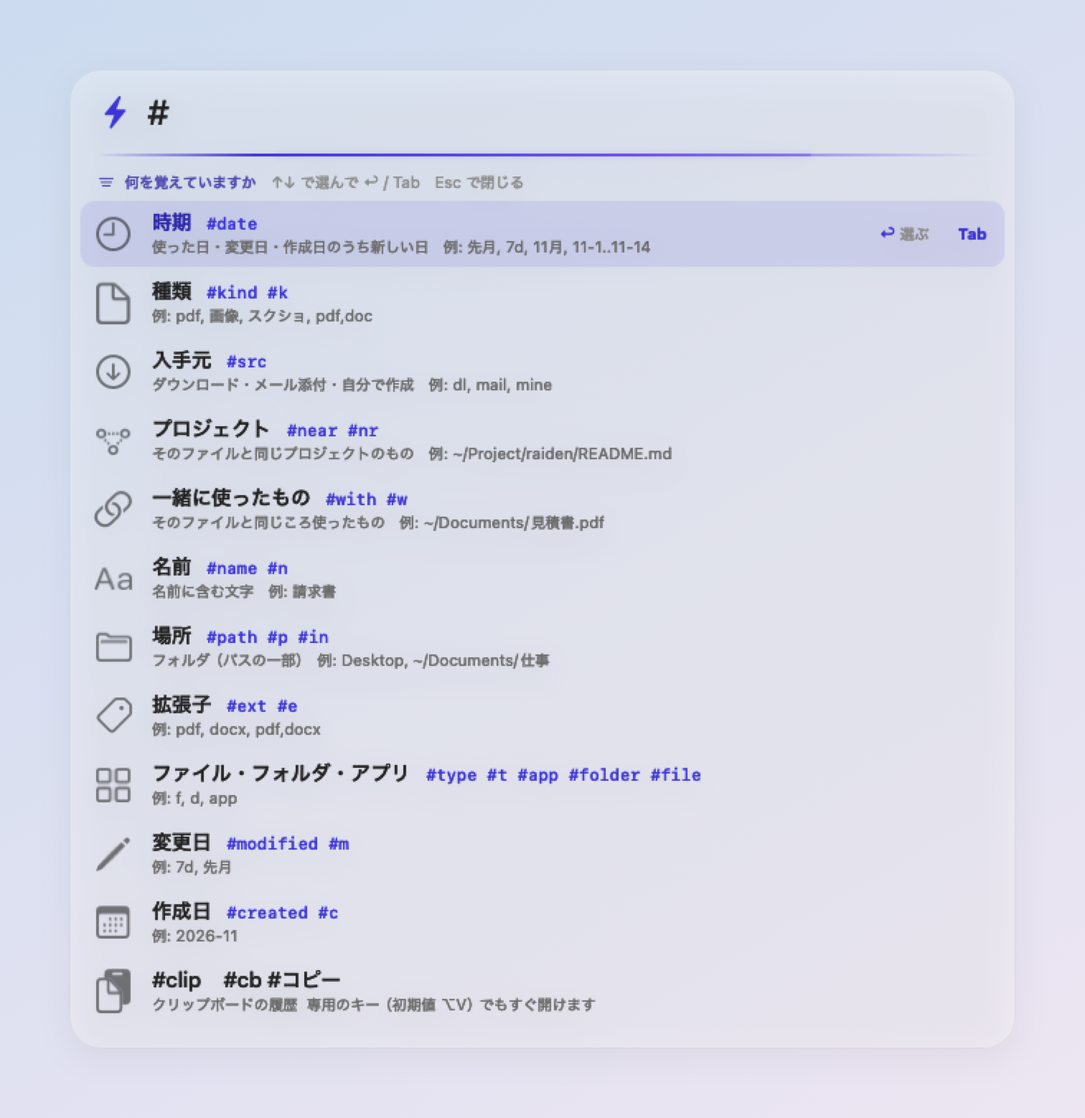
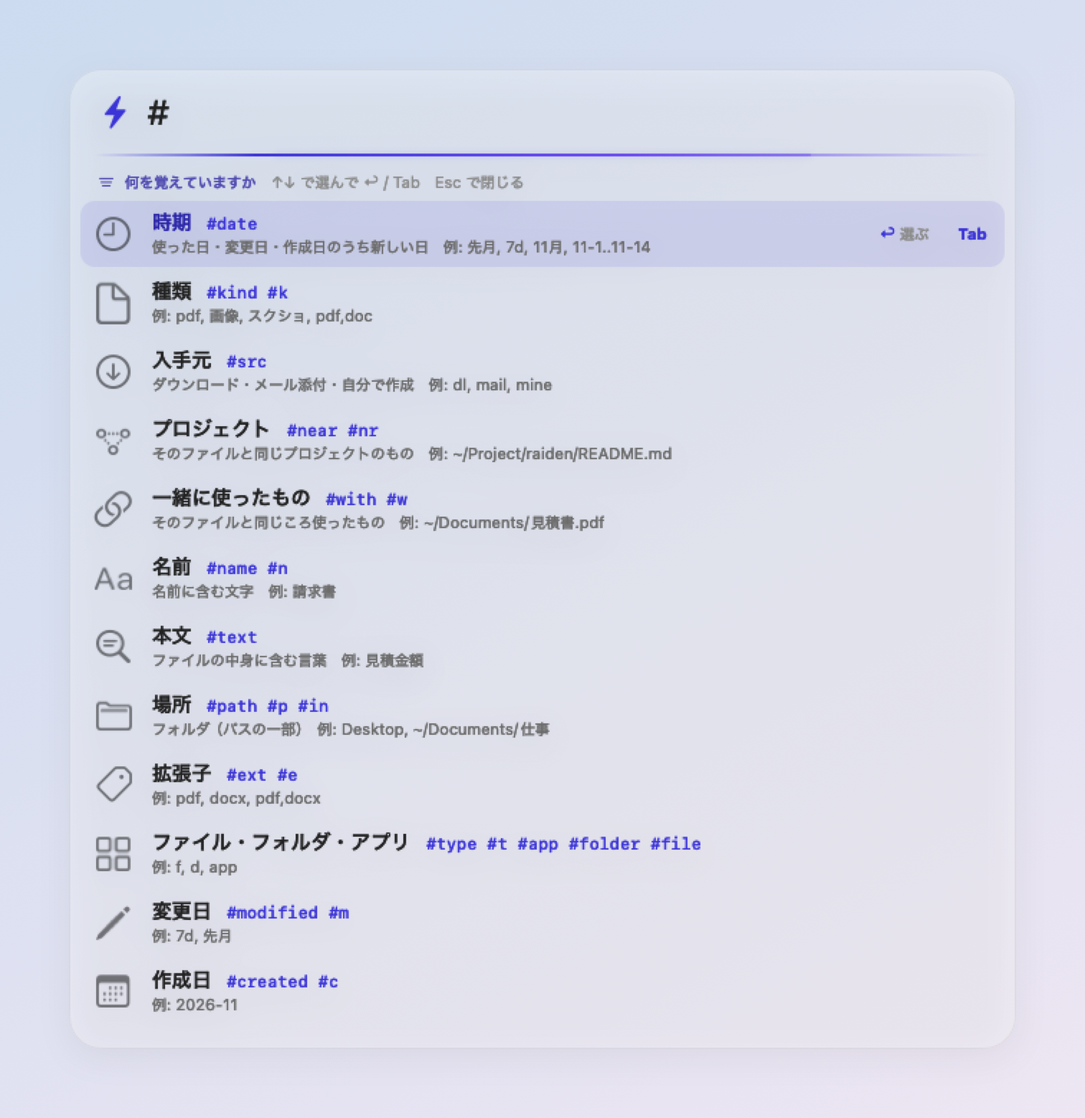
#text（本文に含む言葉。Spotlight の kMDItemTextContent）を足す。見つからないときは「探し方を変える」（時期を「ごろ」に広げる・本文から探す・条件を 1 つ外す。見つかる案だけ、⌘1〜）。Spotlight が /System/Volumes/Data/… で返す場所をふだんの書き方に直す

Changed region(s): [[0.0933, 0.5546, 0.6528, 0.9243], [0.2176, 0.801, 0.3108, 0.8318]]

diff --git a/app/Sources/RaidenCore/Recall.swift b/app/Sources/RaidenCore/Recall.swift
@@ -10,8 +10,10 @@ public struct RecallSplit: Sendable, Equatable {
         public let symbol: String    // SF Symbols
         public let command: String   // #date 先月
         public let count: Int
-        public init(label: String, symbol: String, command: String, count: Int) {
-            self.label = label; self.symbol = symbol; self.command = command; self.count = count
+        /// true なら command は入力全体の置き換え（探し方を変えるとき）。false ならチップを 1 つ足す
+        public var replaces = false
+        public init(label: String, symbol: String, command: String, count: Int, replaces: Bool = false) {
+            self.label = label; self.symbol = symbol; self.command = command; self.count = count; self.replaces = replaces
         }
     }
     public let title: String         // 時期で絞り込む
@@ -90,7 +92,8 @@ public enum Recall {
                 let root = sortedRoots.first { dir == $0 || dir.hasPrefix($0 + "/") } ?? dir
                 groups[root, default: []].formUnion(ix)
             }
-            let opts = groups.filter { $0.value.count < total }.map { (root, hit) -> (RecallSplit.Option, Set<Int>) in
+            // ホームや / を選び先にしない（#path ~ では絞れず、件数と食い違う）
+            let opts = groups.filter { $0.value.count < total && $0.key != NSHomeDirectory() && $0.key != "/" }.map { (root, hit) -> (RecallSplit.Option, Set<Int>) in
                 let short = (root as NSString).abbreviatingWithTildeInPath
                 let v = short.contains(where: \.isWhitespace) ? "\"\(short)\"" : short
                 return (RecallSplit.Option(label: placeLabel(root), symbol: "folder", command: "#path \(v)", count: hit.count), hit)
@@ -110,6 +113,46 @@ public enum Recall {
         // どの切り口でも、選んでもほとんど減らない（一番大きい選び先が大半を占める）なら聞かない
         guard let b = best, b.2 < maxScore else { return nil }
         return RecallSplit(title: "\(b.0)で絞り込む", total: total, options: b.1.map(\.0))
+    }
+
+    // MARK: - 見つからないときの探し方
+
+    /// 条件に合う物が 0 件のときの「探し方を変える」の案（入力全体の書き換え）。count は各案で見つかる数を数える口。
+    /// 行き詰まったら探す場所を変えると、また思い出せる（Williams & Hollan 1981）ので、
+    /// 時期を広げる・名前でなく本文から探す・条件を 1 つ外す、を数えて見つかる物だけ出す
+    public static func alternatives(_ q: String, now: Date = Date(), count: (String) -> Int) -> RecallSplit? {
+        let f = QueryFilters.parse(q, now: now)
+        guard f.isActive || !f.text.isEmpty else { return nil }
+        let cmds = f.parsed.filter(\.ok)
+        func join(_ cs: [String], _ text: String) -> String { (cs + (text.isEmpty ? [] : [text])).joined(separator: " ") }
+        func quoted(_ v: String) -> String { v.contains(where: \.isWhitespace) ? "\"\(v)\"" : v }
+        var opts: [RecallSplit.Option] = []
+        // 時期を広げる（「先月」→「先月ごろ」。もう「ごろ」なら外す案に任せる）
+        for (i, c) in cmds.enumerated() where c.command.map({ [.date, .modified, .created].contains($0) }) == true {
+            guard let v = c.value, !Describe.normalize(v).hasSuffix("ごろ"), let cmd = c.command,
+                  QueryFilters.parseDate(v + "ごろ", now: now) != nil else { continue }
+            var cs = cmds.map(\.raw); cs[i] = cmd.name + " " + quoted(v + "ごろ")
+            let nq = join(cs, f.text)
+             opts.append(.init(label: "「\(c.meaning ?? v)ごろ」に広げる", symbol: "clock", command: nq, count: count(nq), replaces: true))
+        }
+        // 名前でなく本文から探す
+        if !f.text.isEmpty && f.contents.isEmpty {
+            let nq = join(cmds.map(\.raw) + ["#text " + quoted(f.text)], "")
+            let shown = f.text.count > 10 ? String(f.text.prefix(10)) + "…" : f.text
+            opts.append(.init(label: "本文から「\(shown)」", symbol: "text.magnifyingglass", command: nq, count: count(nq), replaces: true))
+        }
+        // 条件を 1 つ外す
+        let chips = f.chips
+        for c in chips {
+            let rest = cmds.filter { $0.command != c.command }.map(\.raw)
+            let nq = join(rest, f.text)
+            if nq.trimmingCharacters(in: .whitespaces).isEmpty { continue }
+            let value = c.label.split(separator: ":", maxSplits: 1).last.map { $0.trimmingCharacters(in: .whitespaces) } ?? c.label
+            opts.append(.init(label: "「\(value)」を外す", symbol: "xmark.circle", command: nq, count: count(nq), replaces: true))
+        }
+        let found = opts.filter { $0.count > 0 }
+        guard !found.isEmpty else { return nil }
+        return RecallSplit(title: "探し方を変える", total: 0, options: Array(found.prefix(maxOptions)))
     }
 
     // MARK: - 最近の作業のまとまり
@@ -165,6 +208,7 @@ public enum Recall {
 
     /// 場所の名前。「3.3.10」のような版の番号だけの名前は親と並べ、「@」の後ろ（版・ハッシュ）は落とす
     static func placeLabel(_ root: String) -> String {
+        if root == NSHomeDirectory() { return "ホーム" }
         var name = (root as NSString).lastPathComponent
         if let at = name.firstIndex(of: "@"), at != name.startIndex { name = String(name[..<at]) }
         if !name.contains(where: \.isLetter) {

diff --git a/app/Sources/RaidenCore/QueryFilters.swift b/app/Sources/RaidenCore/QueryFilters.swift
@@ -13,7 +13,7 @@ import Foundation
 ///   コマンドと読むのは、入力の先頭か空白の直後の「#」「＃」＋文字だけ（「C#」「#1」は普通の文字）。
 public struct QueryFilters: Sendable {
     public enum Command: String, Sendable, CaseIterable {
-        case kind, type, ext, date, modified, created, path, name, with, near, src
+        case kind, type, ext, date, modified, created, path, name, with, near, src, text
         public var takesValue: Bool { true }
         public var name: String { QueryFilters.mark + rawValue }
         /// 短い別名（find / fd と同じ 1 文字）。#date は無し
@@ -28,7 +28,7 @@ public struct QueryFilters: Sendable {
             case .name: return "#n"
             case .with: return "#w"
             case .near: return "#nr"
-            case .date, .src: return nil
+            case .date, .src, .text: return nil
             }
         }
         var isDate: Bool { self == .date || self == .modified || self == .created }
@@ -78,6 +78,8 @@ public struct QueryFilters: Sendable {
     public var nearPath: String?
     /// #src（入手元）: dl（ダウンロード）・mail（メール添付）・mine（自分で作成）。または
     public var sources: Set<String> = []
+    /// #text（本文に含む言葉。かつ）。matches では見ない（中身は Spotlight でしか引けない）
+    public var contents: [String] = []
     var labels: [Command: [String]] = [:]
     /// チップの並び（付けた順。同じコマンドは 1 つにまとめる）
     public private(set) var order: [Command] = []
@@ -85,7 +87,7 @@ public struct QueryFilters: Sendable {
     var hasKind: Bool { !kinds.isEmpty || !kindExts.isEmpty }
     /// 絞り込みが効いているか
     public var isActive: Bool {
-        !types.isEmpty || hasKind || !exts.isEmpty || !dates.isEmpty || !paths.isEmpty || !names.isEmpty || hasRelation || !sources.isEmpty
+        !types.isEmpty || hasKind || !exts.isEmpty || !dates.isEmpty || !paths.isEmpty || !names.isEmpty || hasRelation || !sources.isEmpty || !contents.isEmpty
     }
     /// #with か #near が付いている（手元の matches では絞れず、土台の側で絞る条件）
     public var hasRelation: Bool { withPath != nil || nearPath != nil }
@@ -94,7 +96,7 @@ public struct QueryFilters: Sendable {
     /// アプリを候補に出すか（ファイルにしか効かない条件が付いていれば出さない）
     public var allowsApps: Bool {
         (types.isEmpty || types.contains("app")) && (!hasKind || kinds.contains("app"))
-            && exts.isEmpty && dates.isEmpty && paths.isEmpty && !hasRelation && sources.isEmpty
+            && exts.isEmpty && dates.isEmpty && paths.isEmpty && !hasRelation && sources.isEmpty && contents.isEmpty
     }
     /// ファイル・フォルダを候補に出すか（アプリだけを頼んだときは出さない）
     public var allowsFiles: Bool {
@@ -116,6 +118,7 @@ public struct QueryFilters: Sendable {
         ("with", .with), ("w", .with), ("一緒", .with),
         ("near", .near), ("nr", .near), ("近く", .near),
         ("src", .src), ("source", .src), ("入手元", .src),
+        ("text", .text), ("content", .text), ("本文", .text), ("中身", .text),
     ]
 
     /// #src の値（入手元）→ dl / mail / mine
@@ -303,6 +306,7 @@ public struct QueryFilters: Sendable {
             if f.withPath != nil { others.append("#with") }
             if f.nearPath != nil { others.append("#near") }
             if !f.sources.isEmpty { others.append("#src") }
+            if !f.contents.isEmpty { others.append("#text") }
             if !others.isEmpty { f.notes.append("アプリ（#type app）と \(others.joined(separator: "・")) は一緒に使えません") }
         }
         f.text = f.hasSyntax ? rest.joined(separator: " ") : query.trimmingCharacters(in: .whitespacesAndNewlines)
@@ -376,6 +380,12 @@ public struct QueryFilters: Sendable {
             sources.formUnion(ss.map { $0! })
             remember(.src, ls)
             return ls.joined(separator: "・")
+        case .text:
+            let w = v.trimmingCharacters(in: .whitespaces)
+            if w.isEmpty { return nil }
+            if !contents.contains(w) { contents.append(w) }
+            remember(.text, ["「\(w)」"])
+            return "「\(w)」"
         case .with, .near:
             let p = v.trimmingCharacters(in: .whitespaces)
             if p.isEmpty { return nil }
@@ -401,6 +411,7 @@ public struct QueryFilters: Sendable {
         case .with: f.withPath = nil
         case .near: f.nearPath = nil
         case .src: f.sources = []
+        case .text: f.contents = []
         }
         f.labels[c] = nil
         f.order.removeAll { $0 == c }
@@ -504,6 +515,7 @@ public struct QueryFilters: Sendable {
             case .with: return Chip(command: c, symbol: "link", label: "一緒に使った: " + v)
             case .near: return Chip(command: c, symbol: "point.3.connected.trianglepath.dotted", label: "同じプロジェクト: " + v)
             case .src: return Chip(command: c, symbol: "arrow.down.circle", label: "入手元: " + v)
+            case .text: return Chip(command: c, symbol: "text.magnifyingglass", label: "本文: " + v)
             }
         }
     }

diff --git a/app/Sources/RaidenCore/SpotlightSearch.swift b/app/Sources/RaidenCore/SpotlightSearch.swift
@@ -72,11 +72,12 @@ public final class SpotlightSearch: @unchecked Sendable {
         public var nearAnchor: String?
         public var download = false              // 「ダウンロードした」（~/Downloads か kMDItemWhereFroms）
         public var sources: Set<String> = []     // #src（dl / mail / mine）。細かい所は post でふるう
+        public var contents: [String] = []       // #text（本文に含む言葉。かつ）
         /// 結果をふるう条件（#path の名前・パス・種類の細かい所）。名前の言葉は別に見る
         public var post: QueryFilters?
         public var isEmpty: Bool {
             words.isEmpty && names.isEmpty && families.isEmpty && kindExts.isEmpty && exts.isEmpty && types.isEmpty && dates.isEmpty
-                && scopes.isEmpty && pathNames.isEmpty && withAnchor == nil && nearAnchor == nil && !download && sources.isEmpty
+                && scopes.isEmpty && pathNames.isEmpty && withAnchor == nil && nearAnchor == nil && !download && sources.isEmpty && contents.isEmpty
         }
         public init() {}
     }
@@ -97,6 +98,7 @@ public final class SpotlightSearch: @unchecked Sendable {
         r.withAnchor = f.withPath
         r.nearAnchor = f.nearPath
         r.sources = f.sources
+        r.contents = f.contents
         r.post = f
         return r
     }
@@ -232,6 +234,7 @@ public final class SpotlightSearch: @unchecked Sendable {
         if r.sources == ["dl"] { cs.append("kMDItemWhereFroms == \"*\"") }
         if r.sources == ["mail"] { cs.append("kMDItemWhereFroms == \"message:*\"") }
         if r.sources == ["mine"] { cs.append("kMDItemWhereFroms != *") }
+        for w in r.contents { cs.append("kMDItemTextContent == \"*\(esc(w))*\"cd") }
         if cs.isEmpty { return "kMDItemContentTypeTree == \"public.item\"" }
         return cs.joined(separator: " && ")
     }
@@ -320,7 +323,9 @@ public final class SpotlightSearch: @unchecked Sendable {
 
     /// 1 件の属性から FileEntry を作る（種類は名前の拡張子と UTI の両方から）
     static func entry(_ d: [String: Any]) -> FileEntry? {
-        guard let p0 = d[kMDItemPath as String] as? String else { return nil }
+        guard var p0 = d[kMDItemPath as String] as? String else { return nil }
+        // データの巻のファームリンク（/System/Volumes/Data/Users/…）で返ることがあるので、ふだんの書き方（/Users/…）に直す
+        if p0.hasPrefix("/System/Volumes/Data/") { p0 = String(p0.dropFirst("/System/Volumes/Data".count)) }
         let path = p0.precomposedStringWithCanonicalMapping
         let name = (path as NSString).lastPathComponent
         let ct = d[kMDItemContentType as String] as? String ?? ""

diff --git a/app/Sources/raiden-eval/RecallEval.swift b/app/Sources/raiden-eval/RecallEval.swift
@@ -69,6 +69,23 @@ func runRecallTests() -> (Int, Int) {
     } else { expect(false, "先月ごろ が読めない") }
     expect(QueryFilters.parseDate("11月頃", now: now)?.1 == "11月ごろ", "11月頃")
     expect(QueryFilters.parse("#date 先月ごろ 見積", now: now).chips.first?.label == "期間: 先月ごろ", "チップは「期間: 先月ごろ」")
+    // #text
+    let tf = QueryFilters.parse("#text 見積金額 #kind pdf", now: now)
+    expect(tf.contents == ["見積金額"] && tf.chips.contains { $0.label == "本文: 「見積金額」" } && tf.isActive, "#text のチップ \(tf.chips.map(\.label))")
+    expect(SpotlightSearch.queryString(SpotlightSearch.request(tf, now: now)).contains("kMDItemTextContent == \"*見積金額*\"cd"), "#text は本文で引く")
+    expect(QueryFilters.parse("#本文 請求", now: now).contents == ["請求"], "#本文")
+    // 見つからないときの探し方（数える口は見本: 本文から 5、先月ごろ 2、ほかは 0）
+    let alt = Recall.alternatives("#date 先月 #kind pdf 見積", now: now) { q in
+        q.contains("#text") ? 5 : q.contains("先月ごろ") ? 2 : 0
+    }
+    expect(alt?.title == "探し方を変える" && alt?.total == 0, "探し方を変える")
+    expect(alt?.options.first?.label == "「先月ごろ」に広げる" && alt?.options.first?.command == "#date 先月ごろ #kind pdf 見積" && alt?.options.first?.replaces == true,
+           "時期を広げる案 \(alt?.options.map(\.command) ?? [])")
+    expect(alt?.options.contains { $0.command == "#date 先月 #kind pdf #text 見積" } == true, "本文から探す案")
+    expect(alt?.options.count == 2, "見つからない案（0 件）は出さない")
+    let alt2 = Recall.alternatives("#date 先月 #kind pdf", now: now) { q in q.contains("#kind") ? 0 : 3 }
+    expect(alt2?.options.map(\.label) == ["「PDF」を外す"], "条件を 1 つ外す案 \(alt2?.options.map(\.label) ?? [])")
+    expect(Recall.alternatives("見積", now: now) { _ in 4 }?.options.map(\.command) == ["#text 見積"], "ふつうの入力は本文から探す案だけ")
     // 最近の作業のまとまり: 45 分あいたら分ける、1 まとまり 4 行まで、合計 9 行まで
     func used(_ p: String, minAgo: Int) -> FileEntry {
         FileEntry(path: home + p, name: (p as NSString).lastPathComponent, parentName: "", isDir: false, kind: "", families: [], size: 1,

diff --git a/app/Sources/Raiden/FilterUI.swift b/app/Sources/Raiden/FilterUI.swift
@@ -268,6 +268,21 @@ final class FilterInput {
         panel?.focusField()
     }
 
+    /// 入力全体を書き換える（「探し方を変える」の案）。コマンドはチップに、残りは入力欄に
+    func replaceQuery(_ q: String) {
+        guard let field else { return }
+        if let ex = FilterCompletion.extractCommitted(q + " ", now: now()) {
+            committed = ex.commands
+            field.stringValue = ex.text.trimmingCharacters(in: .whitespaces)
+        } else {
+            committed = []
+            field.stringValue = q
+        }
+        stepBack = nil
+        refresh()
+        panel?.focusField()
+    }
+
     /// 言葉からの候補を決める: チップにして、入力からその言葉を外す
     func acceptSuggestion(_ s: FilterSuggest.Suggestion) {
         guard let field else { return }
@@ -703,6 +718,14 @@ enum FilterSnapshots {
             .init(label: "メール添付", symbol: "envelope", command: "#src mail", count: 8)])
         ak2.setResults([ResultSection(title: "ファイル・フォルダ", symbol: "folder", items: Array(akRows.prefix(2)))], query: ak2.filterInput.currentQuery, split: akSplit2)
         Snapshot.capture(ak2, dir + "/recall-ask2.png")
+        // 見つからないときの「探し方を変える」（件数は見本）
+        let nf = panel("見積", committed: ["#date 先月", "#kind pdf"])
+        let nfSplit = RecallSplit(title: "探し方を変える", total: 0, options: [
+            .init(label: "「先月ごろ」に広げる", symbol: "clock", command: "#date 先月ごろ #kind pdf 見積", count: 4, replaces: true),
+            .init(label: "本文から「見積」", symbol: "text.magnifyingglass", command: "#date 先月 #kind pdf #text 見積", count: 9, replaces: true),
+            .init(label: "「PDF」を外す", symbol: "xmark.circle", command: "#date 先月 見積", count: 3, replaces: true)])
+        nf.setResults([], query: nf.filterInput.currentQuery, split: nfSplit)
+        Snapshot.capture(nf, dir + "/recall-notfound.png")
 
         // 絞り込みの長い一覧を時期の棚に分けた状態（行に「いつ・どこから」）。今の時刻からの見本
         let nowT = Int(Date().timeIntervalSince1970)

diff --git a/app/Sources/RaidenCore/FilterCompletion.swift b/app/Sources/RaidenCore/FilterCompletion.swift
@@ -149,6 +149,7 @@ public enum FilterCompletion {
         (.near, "point.3.connected.trianglepath.dotted", "プロジェクト", "そのファイルと同じプロジェクトのもの", "例: ~/Project/raiden/README.md"),
         (.with, "link", "一緒に使ったもの", "そのファイルと同じころ使ったもの", "例: ~/Documents/見積書.pdf"),
         (.name, "textformat", "名前", "名前に含む文字", "例: 請求書"),
+        (.text, "text.magnifyingglass", "本文", "ファイルの中身に含む言葉", "例: 見積金額"),
         (.path, "folder", "場所", "フォルダ（パスの一部）", "例: Desktop, ~/Documents/仕事"),
         (.ext, "tag", "拡張子", "", "例: pdf, docx, pdf,docx"),
         (.type, "square.grid.2x2", "ファイル・フォルダ・アプリ", "", "例: f, d, app"),
@@ -352,8 +353,11 @@ public enum FilterCompletion {
     }
 
     public static func commands(matching name: String) -> [Item] {
-        commandItems.filter { c in
-            hit(name, QueryFilters.aliases.filter { $0.1 == c.0 }.map(\.0) + (c.0 == .type ? QueryFilters.typeShorthands.map(\.0) : []))
+        // 別名をそのまま打ったら（#t）、その 1 つだけ（#text などの打ちかけとしては出さない）
+        let exact = name.isEmpty ? nil : QueryFilters.command(named: name)
+        return commandItems.filter { c in
+            if let exact { return c.0 == exact }
+            return hit(name, QueryFilters.aliases.filter { $0.1 == c.0 }.map(\.0) + (c.0 == .type ? QueryFilters.typeShorthands.map(\.0) : []))
         }.map { c in
             // 右に添えるのはコマンドと短い別名だけ（日本語の別名は見出しと同じなので出さない。打てば当たる）
             let sh = c.0 == .type ? QueryFilters.typeShorthands.map { QueryFilters.mark + $0.0 } : []
@@ -442,7 +446,7 @@ public enum FilterCompletion {
             })
         case .with, .near:
             return fileItems(partial: partial, src: src, memory: memory)
-        case .name:
+        case .name, .text:
             return []
         }
         // 並べ方: よく使う値 → 件数のある値（種類・拡張子は多い順）→ 0 件

diff --git a/app/Sources/Raiden/main.swift b/app/Sources/Raiden/main.swift
@@ -404,8 +404,10 @@ final class AppDelegate: NSObject, NSApplicationDelegate, NSMenuDelegate {
             if fileSec.items.count > SearchPanelController.maxRows, let i = secs.firstIndex(where: { $0.symbol == "folder" }) {
                 secs.replaceSubrange(i...i, with: timeShelves(fileSec))
             }
+            // 何も見つからなければ「探し方を変える」の案（時期を広げる・本文から・条件を 1 つ外す）
+            let none = fileSec.items.isEmpty && appSec.items.isEmpty
             return Sections(sections: secs, notFound: notFound, appsNoMatch: aj.noMatch, filesNoMatch: filesNoMatch,
-                            split: fj0.split)
+                            split: none ? e.alternatives(q) : fj0.split)
         }
         let firstMax = 4
         let nSecond = min(second.items.count, total - min(first.items.count, firstMax))
@@ -414,8 +416,10 @@ final class AppDelegate: NSObject, NSApplicationDelegate, NSMenuDelegate {
         second.items = Array(second.items.prefix(nSecond))
         let shown = [first, second].filter { !$0.items.isEmpty }
         let notFound = !shown.isEmpty && shown.allSatisfy(\.faded)
+        // アプリもファイルも見つからなければ「本文から探す」などの案（アプリが当たる入力では数えない。打つたびに遅くしないため）
+        let alt = fileResults.isEmpty && aj.noMatch ? e.alternatives(q) : nil
         return Sections(sections: [first, second], notFound: notFound, appsNoMatch: aj.noMatch, filesNoMatch: filesNoMatch,
-                        split: notFound ? nil : fj0.split)
+                        split: alt ?? (notFound ? nil : fj0.split))
     }
 
     /// ファイルの節を時期の棚に分ける。棚は新しい順、棚の中は元の並び（点数の順）。

diff --git a/app/Sources/Raiden/SearchPanel.swift b/app/Sources/Raiden/SearchPanel.swift
@@ -784,7 +784,7 @@ final class SearchPanelController: NSObject, NSTextFieldDelegate, NSWindowDelega
         guard query == filterInput.currentQuery, palette || filterInput.palette == nil else { return }
         // 下の端の絞り込みの問い（一覧・見つからない・辞書の行き先を選ぶ間は出さない）
         footer.subviews.forEach { $0.removeFromSuperview() }
-        askSplit = palette || notFound || filterInput.isPickingAlias ? nil : split
+        askSplit = palette || (notFound && split?.total != 0) || filterInput.isPickingAlias ? nil : split
         filterInput.asking = askSplit != nil
         if let sp = askSplit {
             let bar = AskBar(sp) { [weak self] i in self?.pickAsk(i) }
@@ -897,7 +897,8 @@ final class SearchPanelController: NSObject, NSTextFieldDelegate, NSWindowDelega
     /// 絞り込みの問いの i 番目を選ぶ（打ったときと同じチップにする）
     func pickAsk(_ i: Int) {
         guard let sp = askSplit, sp.options.indices.contains(i) else { return }
-        filterInput.acceptNext(sp.options[i].command)
+        let o = sp.options[i]
+        if o.replaces { filterInput.replaceQuery(o.command) } else { filterInput.acceptNext(o.command) }
     }
 
     /// 結果が届き直したときに同じ物か見分ける鍵

diff --git a/app/Sources/Raiden/AskBar.swift b/app/Sources/Raiden/AskBar.swift
@@ -11,7 +11,7 @@ final class AskBar: NSView {
         super.init(frame: .zero)
         wantsLayer = true
         let stack = ChipBar.row(in: self)
-        let head = NSTextField(labelWithString: "\(FilterCompletion.countText(split.total)) 件 · \(split.title)")
+        let head = NSTextField(labelWithString: split.total > 0 ? "\(FilterCompletion.countText(split.total)) 件 · \(split.title)" : split.title)
         head.font = .systemFont(ofSize: 11.5, weight: .semibold)
         head.textColor = PanelStyle.indigo
         let icon = NSImageView(image: symbol("questionmark.circle", size: 11, weight: .semibold) ?? NSImage())
@@ -20,7 +20,8 @@ final class AskBar: NSView {
         stack.addArrangedSubview(head)
         stack.setCustomSpacing(10, after: head)
         for (i, o) in split.options.enumerated() {
-            let p = ChipBar.pill("⌘\(i + 1)  \(o.label)  \(FilterCompletion.countText(o.count))", symbol: o.symbol, filled: false)
+            let n = o.count >= 1000 && o.replaces ? "1000以上" : FilterCompletion.countText(o.count)
+            let p = ChipBar.pill("⌘\(i + 1)  \(o.label)  \(n)", symbol: o.symbol, filled: false)
             p.onTap = { onPick(i) }
             p.toolTip = "\(o.command)（⌘\(i + 1)）"
             stack.addArrangedSubview(p)

diff --git a/app/Sources/RaidenCore/Engine.swift b/app/Sources/RaidenCore/Engine.swift
@@ -229,6 +229,14 @@ public final class Engine {
         return j
     }
 
+    /// 条件に合う物が 0 件のときの「探し方を変える」の案（各案を Spotlight で数える。1 回 100〜200ms）
+    public func alternatives(_ q: String, now: Date = Date()) -> RecallSplit? {
+        Recall.alternatives(q, now: now) { [spotlight] nq in
+            let f = QueryFilters.parse(nq, now: now)
+            return f.allowsFiles ? spotlight.count(f, max: 1000, now: now) : 0
+        }
+    }
+
     /// 走っているファイルの問い合わせを止める（次の文字が来たとき）
     public func cancelFiles() { spotlight.cancel() }
 }

diff --git a/app/Sources/raiden-eval/main.swift b/app/Sources/raiden-eval/main.swift
@@ -101,6 +101,7 @@ if let q = opt("--recall") {
     let f = QueryFilters.parse(q)
     let r = sp.search(q, filters: f.hasSyntax ? f : nil, limit: 9)
     print("\(q): \(r.total) 件  \(String(format: "%.0f", r.ms))ms（問い \(String(format: "%.0f", r.splitMs))ms）")
+    if r.total == 0, let a = Engine().alternatives(q) { print("  " + a.title + ": " + a.options.map { "\($0.label) \($0.count)（\($0.command)）" }.joined(separator: " / ")) }
     if let s = r.split { print("  \(s.title): " + s.options.map { "\($0.label) \($0.count)（\($0.command)）" }.joined(separator: " / ")) } else { print("  問いなし") }
     exit(0)
 }
